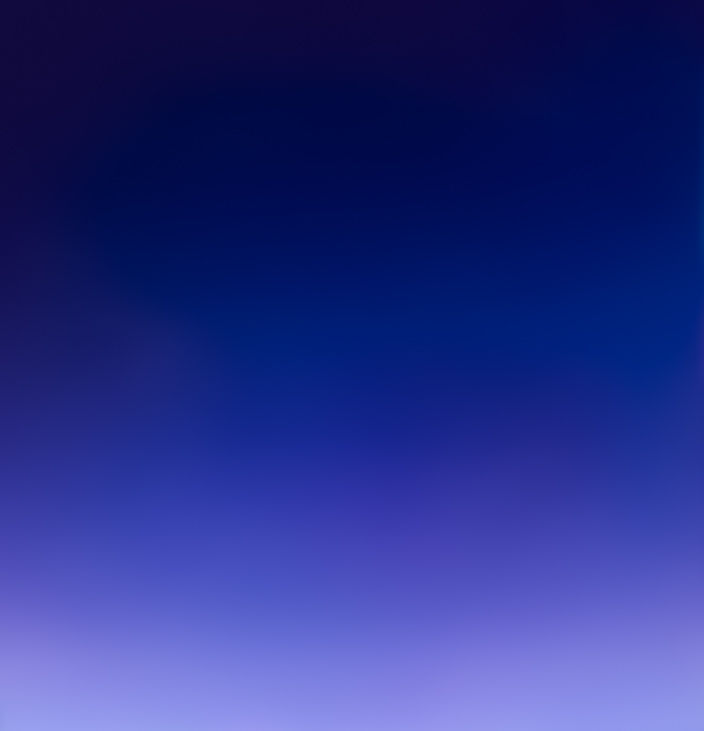
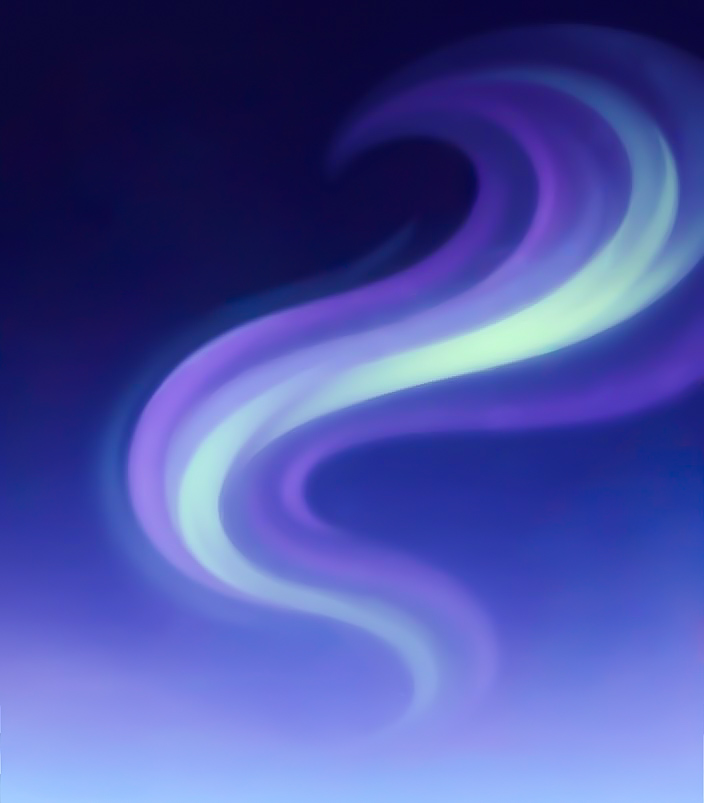
09-carte-progression.md: night sky with a persistent aurora borealis
Replaces the plain dark-gradient night sky with the creator's updated
version -- an aurora borealis baked into the art itself, meant to be a
constant feature of the night sky rather than an occasional effect. Same
file path, no code changes needed.

Claude-Session: https://claude.ai/code/session_01QJhmBXxG8bP3KG6H3AZ1rh

diff --git a/mobile/README.md b/mobile/README.md
@@ -540,7 +540,11 @@ the path and the grass, it's a single full-bleed `Image.asset` rather
 than a tiled `ImageShader` (nothing to repeat; it just fills the screen
 once), picked the same way `HomeScreen` picks its own background: once
 per screen instance in `initState` via `DayNightSchedule.current()`, not
-re-evaluated on every rebuild. It first came up when asking about the
+re-evaluated on every rebuild. The night sky has a persistent aurora
+borealis baked into the art itself (the creator's own touch, beyond what
+`09-carte-progression.md`'s "poussière d'étoiles visible" describes) --
+just part of that one image, nothing extra to wire up for it. It first
+came up when asking about the
 sky: the creator mentioned the day/night cycle applies to
 `08-page-accueil.md`'s background too, not just this screen -- already
 wired there (see that section above). Three pieces of level-map decor
